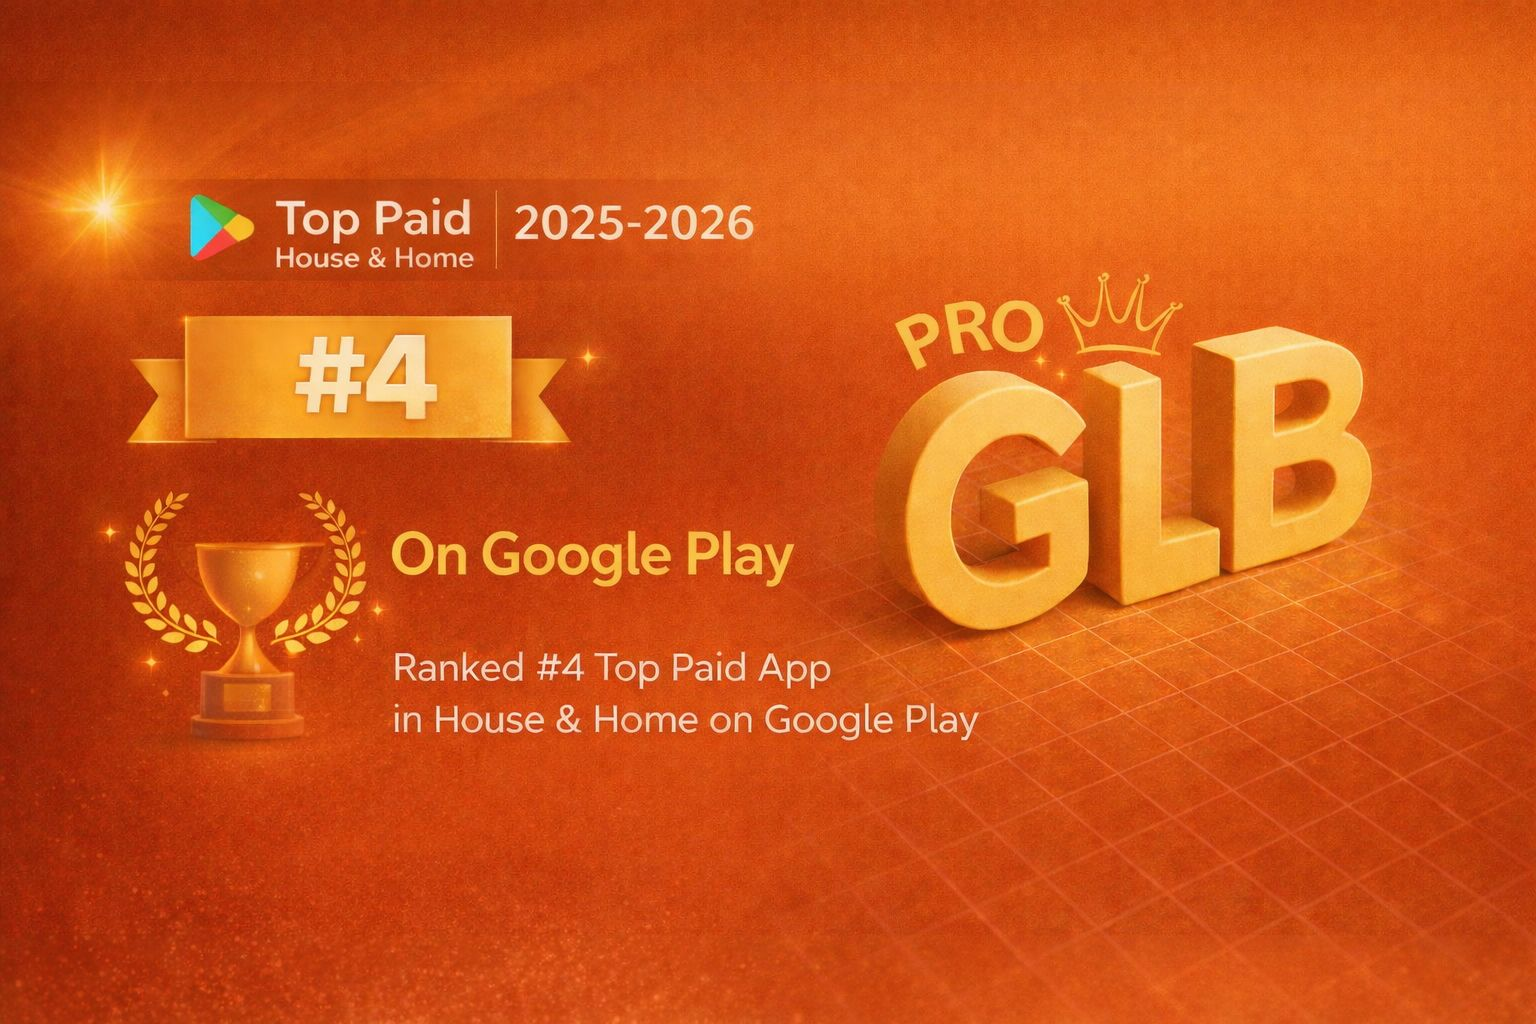
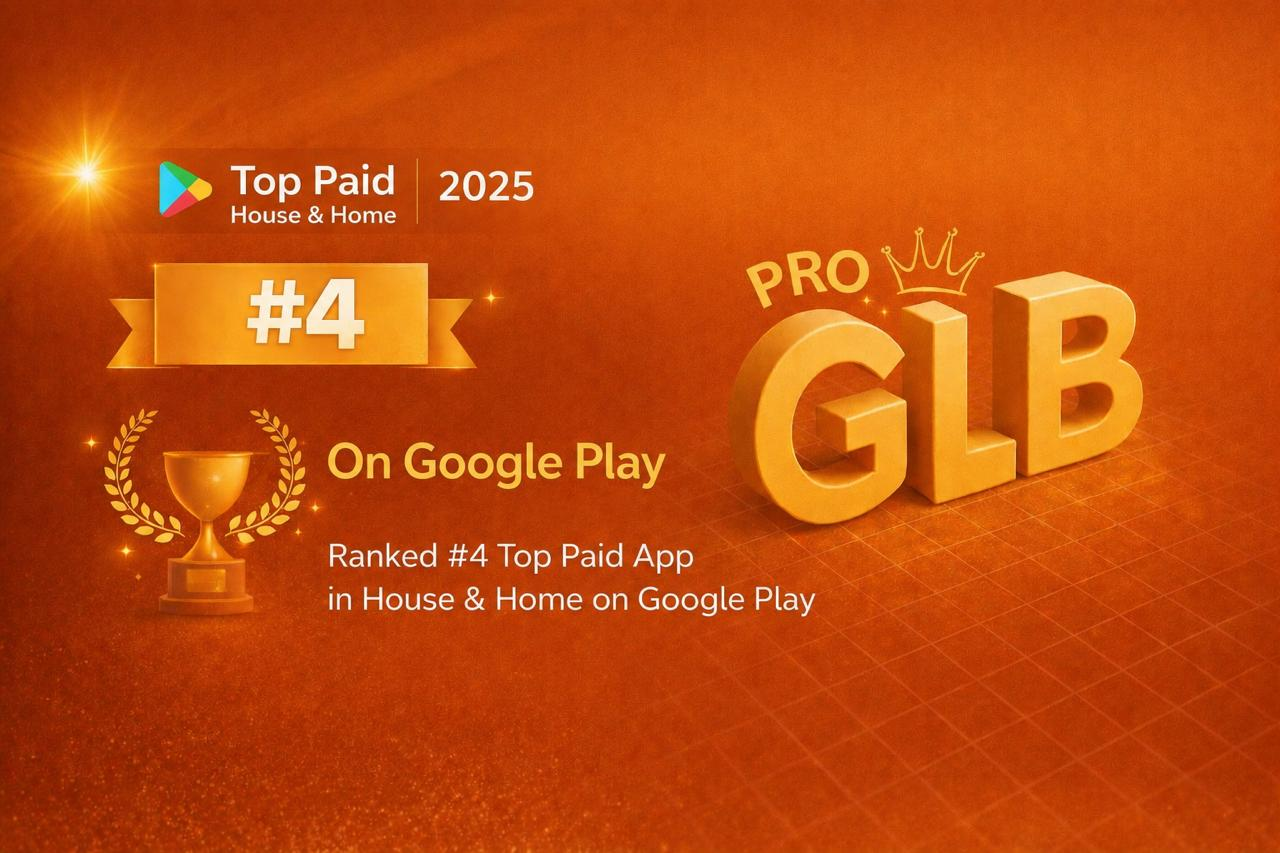
New win

diff --git a/index.html b/index.html
@@ -128,7 +128,10 @@
           "https://in.linkedin.com/in/akshay-cp7",
           "https://play.google.com/store/apps/dev?id=7948075848513102467"
         ],
-        "award": "Tripo 3D AI Contest Winner (2025)"
+        "award": [
+          "Tripo 3D AI Contest Winner (2025)",
+          "Tripo Bit to Atom 3D Model Designing Challenge - Best Visual Award (2026)"
+        ]
       }
     </script>
 
@@ -160,7 +163,7 @@
           "image": "https://akshaycp.com/banner.png"
         },
         "dateCreated": "2025-01-01",
-        "dateModified": "2025-07-01"
+        "dateModified": "2026-05-16"
       }
     </script>
 
@@ -583,6 +586,18 @@
                 <ul class="mt-2 space-y-2 text-gray-400" aria-label="Awards and recognition">
                   <li>
                     <a
+                      href="https://www.tripo3d.ai/event/2026-bit-to-atom-challenge"
+                      target="_blank"
+                      rel="noopener noreferrer"
+                      class="hover:text-white transition-colors"
+                      aria-label="Tripo Bit to Atom 3D Model Designing Challenge 2026 - Best Visual Award"
+                      itemprop="award"
+                    >
+                      🏅 Tripo Bit to Atom Challenge - Best Visual Award (2026) ↗
+                    </a>
+                  </li>
+                  <li>
+                    <a
                       href="https://www.tripo3d.ai/event/boss-fight-in-multiverse#allSubmissions"
                       target="_blank"
                       rel="noopener noreferrer"
@@ -627,8 +642,47 @@
             role="list"
             aria-label="Featured projects and achievements"
           >
-            <!-- Highlight 1 - Tripo AI Winner -->
+            <!-- Highlight 1 - Bit to Atom Best Visual Award -->
             <article role="listitem" class="highlight-card md:mb-20" itemscope itemtype="https://schema.org/CreativeWork">
+              <a
+                href="https://www.tripo3d.ai/event/2026-bit-to-atom-challenge"
+                target="_blank"
+                rel="noopener noreferrer"
+                aria-label="Tripo Bit to Atom 3D Model Designing Challenge 2026 - Best Visual Award"
+                itemprop="url"
+              >
+                <div class="glass p-4 group cursor-pointer overflow-hidden">
+                  <div
+                    class="project-image-container bg-zinc-900 rounded-lg mb-4 overflow-hidden relative award-banner"
+                  >
+                    <img
+                      src="tripo_bit_to_atom.jpeg"
+                      class="project-image"
+                      alt="Akshay CP robot shell design for the Tripo Bit to Atom 3D Model Designing Challenge, winner of the Best Visual Award"
+                      loading="lazy"
+                      decoding="async"
+                      width="600"
+                      height="400"
+                      itemprop="image"
+                    />
+                  </div>
+                  <div class="px-4 pb-1 pt-2">
+                    <p class="text-[11px] font-bold uppercase tracking-[0.25em] text-yellow-100/70">
+                      Robot Shell Design Contest
+                    </p>
+                    <h3 class="mt-2 text-lg font-bold text-gray-200" itemprop="name">
+                      Best Visual Award 2026
+                    </h3>
+                    <p class="text-gray-500 text-xs mt-2" itemprop="description">
+                      Special award winner in Tripo's Bit to Atom 3D Model Designing Challenge for robot shell visuals.
+                    </p>
+                  </div>
+                </div>
+              </a>
+            </article>
+
+            <!-- Highlight 2 - Tripo AI Winner -->
+            <article role="listitem" class="highlight-card mt-0 md:mt-20" itemscope itemtype="https://schema.org/CreativeWork">
               <a
                 href="https://www.tripo3d.ai/event/boss-fight-in-multiverse#allSubmissions"
                 target="_blank"
@@ -652,19 +706,22 @@
                     />
                   </div>
                   <div class="px-4 pb-1 pt-2">
-                    <h3 class="text-lg font-bold text-gray-400" itemprop="name">
+                    <p class="text-[11px] font-bold uppercase tracking-[0.25em] text-yellow-100/70">
+                      3D Boss Team Design Contest
+                    </p>
+                    <h3 class="mt-2 text-lg font-bold text-gray-200" itemprop="name">
                       Global AI Event Winner 2025
                     </h3>
-                    <p class="text-gray-500 text-xs" itemprop="description">
-                      Tripo AI 3D Boss fight in Multiverse Event.
+                    <p class="text-gray-500 text-xs mt-2" itemprop="description">
+                      Tripo AI Boss Fight in Multiverse challenge.
                     </p>
                   </div>
                 </div>
               </a>
             </article>
 
-            <!-- Highlight 2 - GLB AR Viewer PRO -->
-            <article role="listitem" class="highlight-card mt-0 md:mt-20" itemscope itemtype="https://schema.org/SoftwareApplication">
+            <!-- Highlight 3 - GLB AR Viewer PRO -->
+            <article role="listitem" class="highlight-card md:mb-20" itemscope itemtype="https://schema.org/SoftwareApplication">
               <meta itemprop="applicationCategory" content="UtilitiesApplication" />
               <meta itemprop="operatingSystem" content="Android" />
               <a
@@ -679,7 +736,7 @@
                     class="project-image-container bg-zinc-900 rounded-lg mb-4 overflow-hidden relative"
                   >
                     <img
-                      src="https://akshaycp.com/glb.jpeg"
+                      src="glb.jpeg"
                       class="project-image"
                       alt="GLB AR Viewer PRO app screenshot showing 3D model viewer for Android"
                       loading="lazy"
@@ -702,8 +759,8 @@
               </a>
             </article>
 
-            <!-- Highlight 3 - Published Apps -->
-            <article role="listitem" class="highlight-card md:mb-20" itemscope itemtype="https://schema.org/CreativeWork">
+            <!-- Highlight 4 - Published Apps -->
+            <article role="listitem" class="highlight-card mt-0 md:mt-20" itemscope itemtype="https://schema.org/CreativeWork">
               <a
                 href="https://play.google.com/store/apps/dev?id=7948075848513102467&hl=en_IN"
                 target="_blank"
@@ -716,7 +773,7 @@
                     class="project-image-container bg-zinc-900 rounded-lg mb-4 overflow-hidden relative"
                   >
                     <img
-                      src="https://akshaycp.com/apps.jpeg"
+                      src="apps.jpeg"
                       class="project-image"
                       alt="Collection of 10+ published apps by Akshay CP on Google Play Store"
                       loading="lazy"
@@ -739,8 +796,8 @@
               </a>
             </article>
 
-            <!-- Highlight 4 - Campus Management -->
-            <article role="listitem" class="highlight-card mt-0 md:mt-20" itemscope itemtype="https://schema.org/SoftwareApplication">
+            <!-- Highlight 5 - Campus Management -->
+            <article role="listitem" class="highlight-card md:mb-20" itemscope itemtype="https://schema.org/SoftwareApplication">
               <meta itemprop="applicationCategory" content="EducationalApplication" />
               <meta itemprop="operatingSystem" content="Android" />
               <div class="glass p-4 group cursor-pointer overflow-hidden">
@@ -764,6 +821,34 @@
                   </h3>
                   <p class="text-gray-500 text-xs" itemprop="description">
                     Built ERP apps for college campus management system including attendance and academic operations
+                  </p>
+                </div>
+              </div>
+            </article>
+
+            <!-- Highlight 6 - NAAC A++ -->
+            <article role="listitem" class="highlight-card mt-0 md:mt-20" itemscope itemtype="https://schema.org/CreativeWork">
+              <div class="glass p-4 group cursor-pointer overflow-hidden">
+                <div
+                  class="project-image-container bg-zinc-900 rounded-lg mb-4 overflow-hidden relative"
+                >
+                  <img
+                    src="naac.jpeg"
+                    class="project-image"
+                    alt="Farook College NAAC A++ accreditation achievement"
+                    loading="lazy"
+                    decoding="async"
+                    width="600"
+                    height="400"
+                    itemprop="image"
+                  />
+                </div>
+                <div class="px-2 pb-2">
+                  <h3 class="text-lg font-bold text-gray-400" itemprop="name">
+                    Farook College NAAC A++
+                  </h3>
+                  <p class="text-gray-500 text-xs" itemprop="description">
+                    Contributed to Farook College gaining NAAC A++ accreditation through technical implementations and support
                   </p>
                 </div>
               </div>
@@ -796,7 +881,7 @@
                   datetime="2024"
                   itemprop="startDate"
                 >
-                  2024 - 2026 - Present
+                  2024 - Present
                 </time>
                 <h3 class="text-xl font-bold mt-2" itemprop="roleName">Flutter App & ERP Developer</h3>
                 <p class="text-gray-400 mt-1" itemprop="memberOf" itemscope itemtype="https://schema.org/Organization">